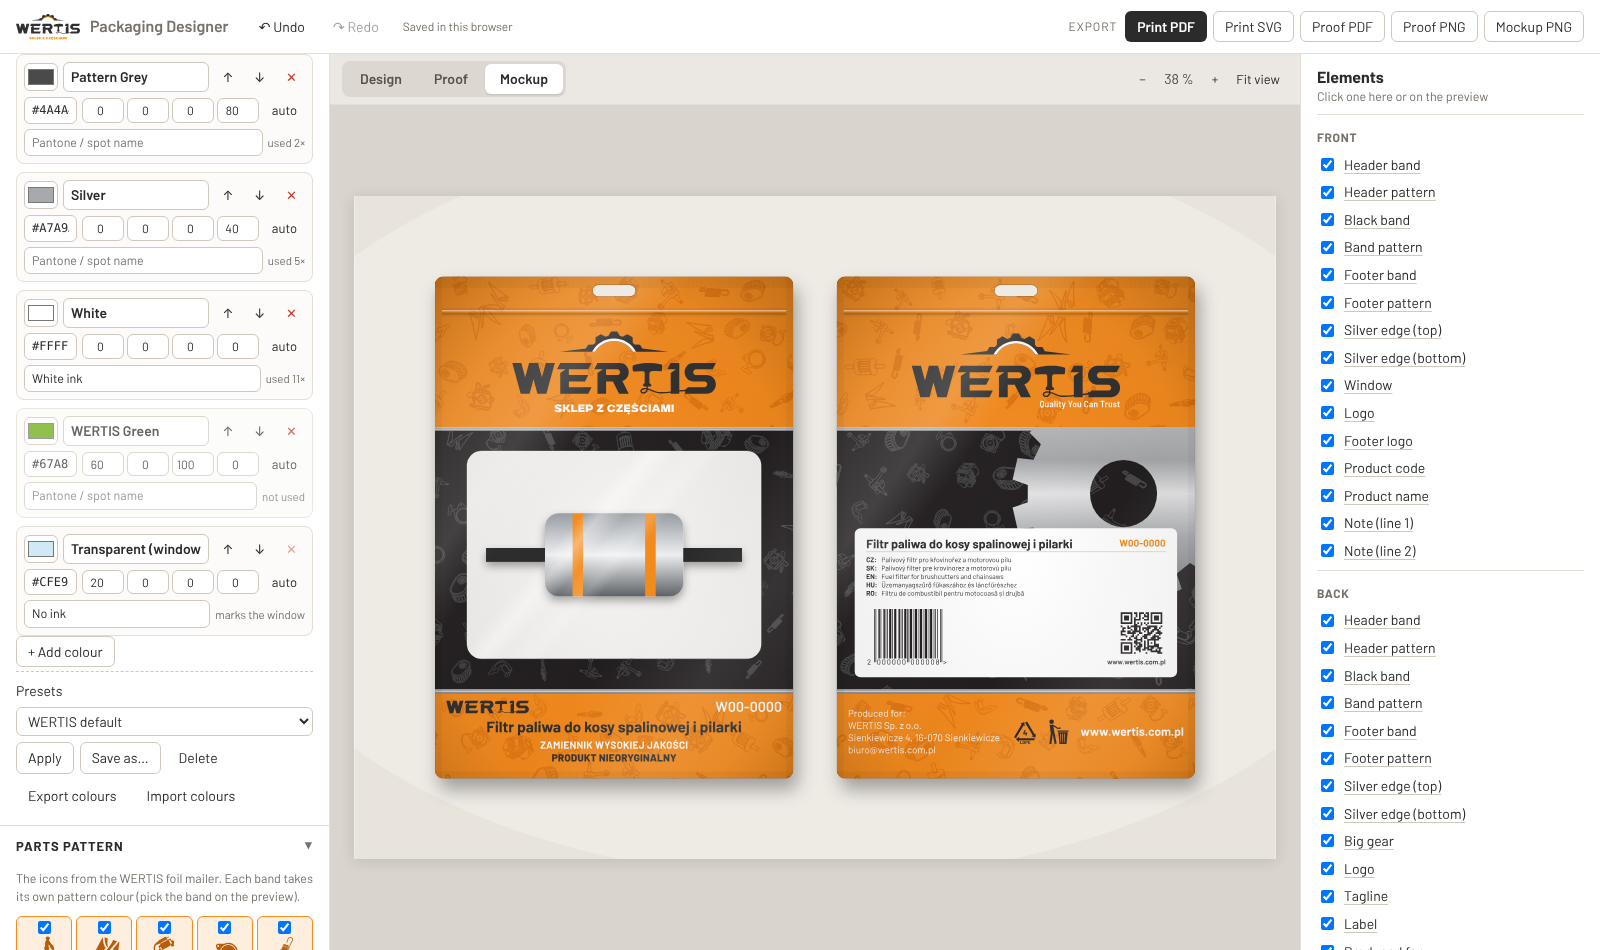
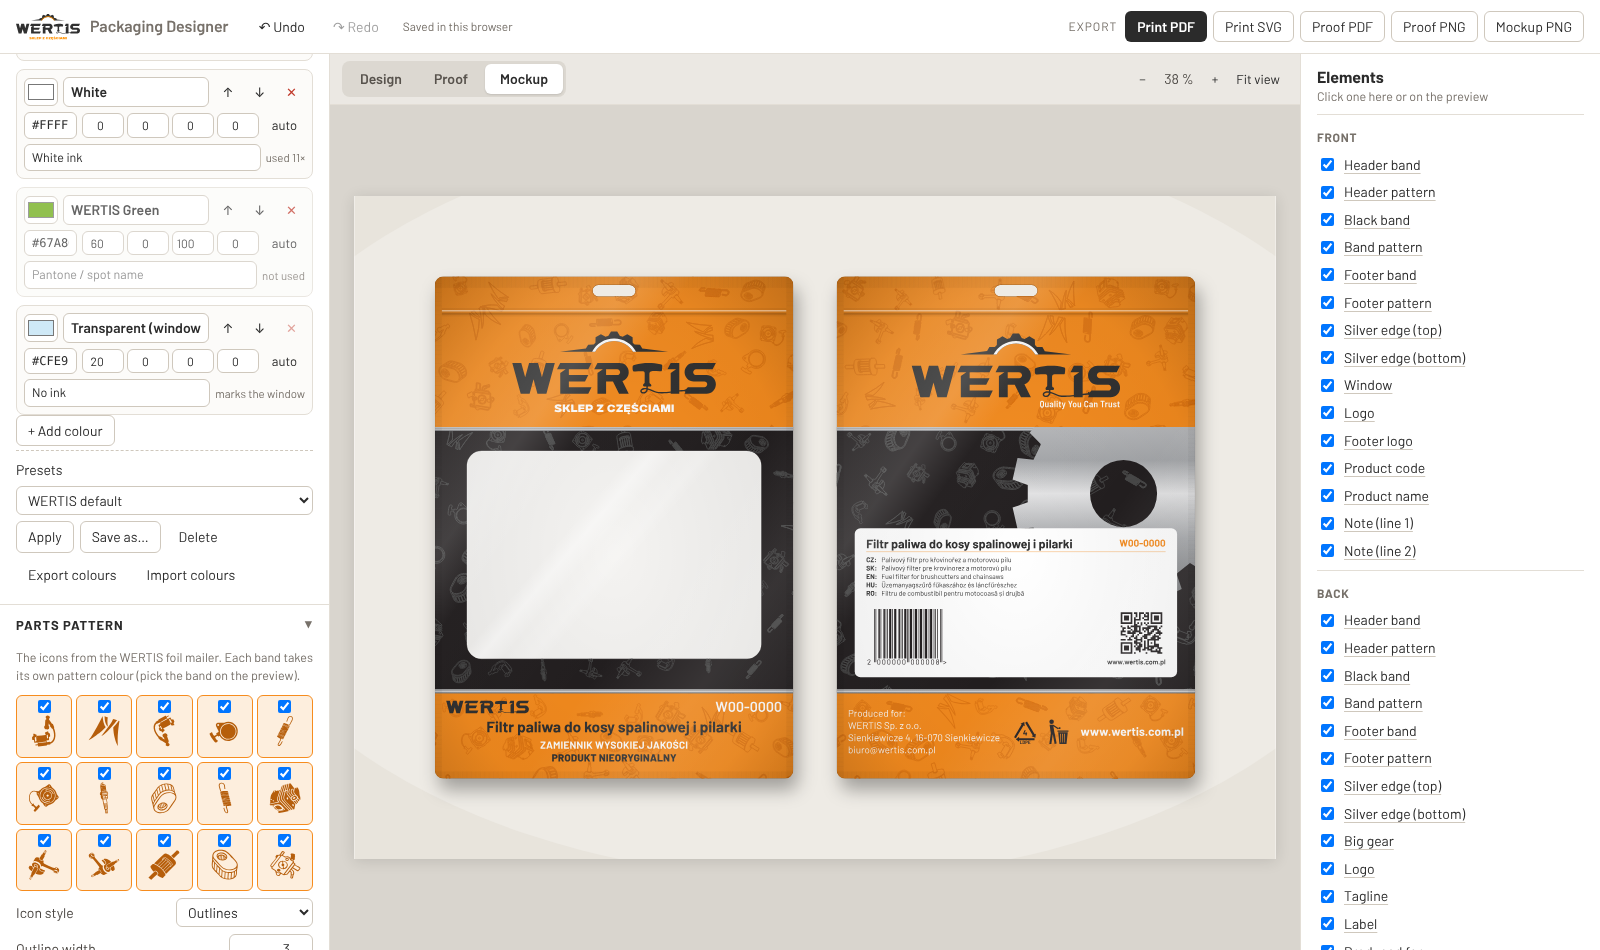
Stand-up pouch (doypack) with gusset strip; empty window without a photo
- standUpPouch: W × H + G, front and back side by side and the bottom gusset as
  its own strip with its fold line; K-seal, round or plain bottom seals; the
  template keeps text above the part of the face that folds under, and the
  gusset carries the WERTIS word on each half (the top one turned).
- Mockup: the stand-up pouch ends in a curved bottom with a floor shadow; with no
  photo the window stays empty (just the film), no placeholder product.
- Panel names sit over their own panel.

Claude-Session: https://claude.ai/code/session_01FnVXzPk8CL7256twG34DiS

Changed region(s): [[0.0, 0.0611, 0.2188, 1.0], [0.2812, 0.5189, 0.4688, 0.6411]]

diff --git a/src/render/mockup.js b/src/render/mockup.js
@@ -5,7 +5,6 @@
 import { el, n, rectPath } from './svg.js';
 import { geometry, panelsWithElements, wrapSvg } from './sheet.js';
 import { panelArt } from './artwork.js';
-import { PATTERN_ICONS } from '../brand/patternIcons.js';
 
 export const MOCKUP_VIEWS = [['front', 'Front'], ['back', 'Back'], ['both', 'Front and back']];
 
@@ -14,21 +13,22 @@ function rc(design, env) {
   return { design, text: env.text, defs: new Map(), used: new Set(), mode: 'mockup', bleed: 0, uid: (p) => `m${p}${++i}` };
 }
 
-// The product behind the window: the photo (cover-fitted, then zoomed and moved by the
-// user), or a placeholder fuel-filter icon when there is no photo yet.
+// The product behind the window: the photo, cover-fitted, then zoomed and moved by the
+// user. Without a photo the window stays empty: just the clear film.
 function productLayer(win, photo) {
+  if (!photo?.src) return '';
   const { x, y, w, h } = win.box;
-  if (photo?.src) {
-    const pw = photo.w || 1000, ph = photo.h || 1000;
-    const zoom = photo.zoom ?? 1;
-    const s = Math.max(w / pw, h / ph) * zoom;
-    const iw = pw * s, ih = ph * s;
-    const ix = x + (w - iw) / 2 + (photo.dx ?? 0) * w, iy = y + (h - ih) / 2 + (photo.dy ?? 0) * h;
-    return el('image', { href: photo.src, x: ix, y: iy, width: iw, height: ih, preserveAspectRatio: 'none' });
-  }
-  const icon = PATTERN_ICONS.find((i) => i.id === 'fuelFilter') ?? PATTERN_ICONS[0];
-  const s = (Math.min(w, h) * 0.78) / 100;
-  return el('g', { transform: `translate(${n(x + w / 2)} ${n(y + h / 2)}) rotate(-12) scale(${n(s)})`, fill: '#3a3a3c' }, icon.paths.map((p) => el('path', { 'fill-rule': p.rule, d: p.d })).join(''));
+  const pw = photo.w || 1000, ph = photo.h || 1000;
+  const zoom = photo.zoom ?? 1;
+  const s = Math.max(w / pw, h / ph) * zoom;
+  const iw = pw * s, ih = ph * s;
+  const ix = x + (w - iw) / 2 + (photo.dx ?? 0) * w, iy = y + (h - ih) / 2 + (photo.dy ?? 0) * h;
+  return el('image', { href: photo.src, x: ix, y: iy, width: iw, height: ih, preserveAspectRatio: 'none' });
+}
+
+function standUpOutline(W, H, zone, r) {
+  const y = H - zone * 0.55;
+  return `M0 ${n(r)}A${n(r)} ${n(r)} 0 0 1 ${n(r)} 0H${n(W - r)}A${n(r)} ${n(r)} 0 0 1 ${n(W)} ${n(r)}V${n(y)}Q${n(W / 2)} ${n(y + zone * 0.5)} 0 ${n(y)}Z`;
 }
 
 // Fine crimp lines across a seal strip.
@@ -45,7 +45,10 @@ function pouchFace(design, env, part, ctx, defs, ids) {
   const W = panel.w, H = panel.h;
   const dims = design.dims;
   const art = panelArt(ctx, { ...panel, bleedSides: { l: false, t: false, r: false, b: false } }, elements);
-  const outline = panel.lines.cut[0];
+  const zone = panel.info?.bottomZone ?? 0;
+  // A stand-up pouch's bottom curves under: the face ends in a shallow bulge part-way into
+  // the gusset zone.
+  const outline = zone ? standUpOutline(W, H, zone, dims.corner ?? 0) : panel.lines.cut[0];
   const holes = panel.lines.holes.join('');
   const clipId = ids('face');
   defs.push(el('clipPath', { id: clipId }, el('path', { d: outline + holes, 'clip-rule': 'evenodd' })));
@@ -59,7 +62,7 @@ function pouchFace(design, env, part, ctx, defs, ids) {
     defs.push(el('clipPath', { id: wClip }, el('path', { d: w.d })));
     inside += el('g', { 'clip-path': `url(#${wClip})` },
       (seeThrough === 'none' ? '' : el('path', { d: rectPath(w.box.x, w.box.y, w.box.w, w.box.h), fill: seeThrough }))
-      + el('g', { filter: `url(#${ids.shadowSoft})` }, productLayer(w, photo)));
+      + (photo?.src ? el('g', { filter: `url(#${ids.shadowSoft})` }, productLayer(w, photo)) : ''));
   }
   const gloss = ids('gloss'), shade = ids('shade'), glare = ids('glare');
   defs.push(
@@ -73,6 +76,13 @@ function pouchFace(design, env, part, ctx, defs, ids) {
         .map(([o, c, a]) => el('stop', { offset: o, 'stop-color': c, 'stop-opacity': a })).join('')),
   );
   let film = el('path', { d: rectPath(0, 0, W, H), fill: `url(#${shade})` }) + el('path', { d: rectPath(0, 0, W, H), fill: `url(#${gloss})` });
+  if (zone) {
+    const curve = ids('curve');
+    const top = (H - zone * 1.6) / H;
+    defs.push(el('linearGradient', { id: curve, x1: 0, y1: 0, x2: 0, y2: 1 },
+      [[0, 0], [top, 0], [1, 0.38]].map(([o, a]) => el('stop', { offset: o, 'stop-color': '#000000', 'stop-opacity': a })).join('')));
+    film += el('path', { d: rectPath(0, 0, W, H), fill: `url(#${curve})` });
+  }
   for (const w of art.windows) film += el('path', { d: w.d, fill: `url(#${glare})` }) + el('path', { d: w.d, fill: 'none', stroke: '#ffffff', 'stroke-opacity': 0.35, 'stroke-width': 0.6 });
   // Seals and zip.
   const seal = dims.sideSeal ?? 0, bottom = dims.bottomSeal ?? 0, top = dims.topSeal ?? 0;
@@ -95,8 +105,9 @@ export function mockupSvg(design, env) {
   const parts = panelsWithElements(design, env, geo);
   const ctx = rc(design, env);
   const view = design.mockup?.view ?? 'front';
-  const shown = parts.filter((p) => (view === 'both' ? true : p.panel.role === view));
-  const faces = shown.length ? shown : parts.slice(0, 1);
+  const faces0 = parts.filter((p) => p.panel.role === 'front' || p.panel.role === 'back');
+  const shown = faces0.filter((p) => (view === 'both' ? true : p.panel.role === view));
+  const faces = shown.length ? shown : faces0.slice(0, 1);
   const defs = [];
   let k = 0;
   const ids = (p) => `${p}${++k}`;
@@ -119,7 +130,10 @@ export function mockupSvg(design, env) {
     const holes = part.panel.lines.holes.join('');
     const shadowClip = ids('sh');
     defs.push(el('clipPath', { id: shadowClip }, el('path', { d: rectPath(-m, -m, W + 2 * m, H + 2 * m) + holes, 'clip-rule': 'evenodd' })));
-    const shadow = el('path', { d: part.panel.lines.cut[0], fill: '#000000', 'fill-opacity': 0.32, filter: `url(#${ids.shadow})`, transform: `translate(${n(W * 0.012)} ${n(H * 0.022)})` });
+    const zone = part.panel.info?.bottomZone ?? 0;
+    const shadow = zone
+      ? el('ellipse', { cx: n(W / 2), cy: n(H - zone * 0.4), rx: n(W * 0.56), ry: n(zone * 0.3), fill: '#000000', 'fill-opacity': 0.4, filter: `url(#${ids.shadow})` })
+      : el('path', { d: part.panel.lines.cut[0], fill: '#000000', 'fill-opacity': 0.32, filter: `url(#${ids.shadow})`, transform: `translate(${n(W * 0.012)} ${n(H * 0.022)})` });
     const tilt = angle ? ` rotate(${n(i % 2 ? -angle : angle)} ${n(W / 2)} ${n(H / 2)})` : '';
     body += el('g', { transform: `translate(${n(x)} 0)${tilt}` }, el('g', { 'clip-path': `url(#${shadowClip})` }, shadow) + face);
   });

diff --git a/src/formats/standUpPouch.js b/src/formats/standUpPouch.js
@@ -1,0 +1,103 @@
+// A stand-up pouch (doypack), W × H + G: front and back faces side by side, and the bottom
+// gusset as its own strip below them (the usual three-web build), folded in half when the
+// pouch is made. The lowest G/2 of each face is where the gusset is sealed in and the bottom
+// curves under, so text keeps above it.
+import { rectPath, polyPath } from '../render/svg.js';
+import { num, choice, toggle, normalizeDims, dim } from './common.js';
+import { HOLES, pouchFace } from './flatPouch.js';
+
+export const BOTTOMS = [['k', 'K-seal'], ['round', 'Round bottom'], ['plow', 'Plain (plough) bottom']];
+
+export const FIELDS = [
+  num('width', 'Width', 160, 60, 500),
+  num('height', 'Height', 230, 80, 700),
+  num('gusset', 'Bottom gusset (open)', 80, 20, 300),
+  choice('bottom', 'Bottom seal', 'k', BOTTOMS),
+  num('sideSeal', 'Side seals', 6, 0, 30, 0.5),
+  num('topSeal', 'Top seal', 8, 0, 40, 0.5),
+  toggle('zip', 'Zip', true),
+  num('zipOffset', 'Zip from top', 30, 5, 200, 0.5, { when: 'zip' }),
+  num('zipWidth', 'Zip track width', 6, 2, 20, 0.5, { when: 'zip' }),
+  choice('hole', 'Hang hole', 'none', HOLES),
+  num('holeWidth', 'Hole width', 30, 4, 80, 0.5, { whenNot: ['hole', 'none'] }),
+  num('holeHeight', 'Hole height', 8, 3, 30, 0.5, { whenNot: ['hole', 'none'] }),
+  num('holeOffset', 'Hole centre from top', 10, 3, 100, 0.5, { whenNot: ['hole', 'none'] }),
+  num('corner', 'Corner radius', 4, 0, 30, 0.5),
+  toggle('tearNotch', 'Tear notches', true),
+  num('notchOffset', 'Notch from top', 20, 3, 200, 0.5, { when: 'tearNotch' }),
+  num('bleed', 'Bleed', 3, 0, 10, 0.5),
+  num('safe', 'Safe margin', 3, 0, 20, 0.5),
+];
+
+const GAP = 14; // between the faces and the gusset strip on the sheet
+
+// The seals where the gusset meets the face at its corners: along an edge at `edge`,
+// reaching `depth` into the panel in direction `dir` (-1 up, +1 down).
+function cornerSeals(kind, W, edge, depth, dir, seal) {
+  const y = (k) => edge + dir * k;
+  if (kind === 'k') {
+    return [polyPath([[0, y(depth)], [depth * 0.55, edge], [0, edge]]), polyPath([[W, y(depth)], [W - depth * 0.55, edge], [W, edge]])];
+  }
+  if (kind === 'round') {
+    const r = depth * 0.9;
+    const arc = (sx) => {
+      const pts = [[sx === 1 ? 0 : W, edge]];
+      for (let i = 0; i <= 12; i++) {
+        const a = (Math.PI / 2) * (i / 12);
+        pts.push([sx === 1 ? r - r * Math.cos(a) : W - r + r * Math.cos(a), y(r - r * Math.sin(a))]);
+      }
+      return polyPath(pts);
+    };
+    return [arc(1), arc(-1)];
+  }
+  const h = Math.min(depth, seal * 2);
+  return [rectPath(0, dir < 0 ? edge - h : edge, W, h)];
+}
+
+export function layout(input) {
+  const d = normalizeDims(FIELDS, input);
+  const W = d.width, H = d.height, G = d.gusset, half = G / 2;
+  const face = pouchFace({ ...d, bottomSeal: half }, W, H);
+  const faceLines = {
+    cut: [rectPath(0, 0, W, H, [d.corner, d.corner, 0, 0])],
+    seal: [
+      d.sideSeal && rectPath(0, 0, d.sideSeal, H), d.sideSeal && rectPath(W - d.sideSeal, 0, d.sideSeal, H),
+      d.topSeal && rectPath(0, 0, W, d.topSeal), ...cornerSeals(d.bottom, W, H, half, -1, d.sideSeal),
+    ].filter(Boolean),
+    zip: face.zipY !== null ? [{ y: face.zipY, w: d.zipWidth }] : [],
+    holes: face.hole ? [face.hole.d] : [],
+    notches: face.notch,
+    fold: [`M0 ${H - half}H${W}`],
+  };
+  const gussetLines = {
+    cut: [rectPath(0, 0, W, G)],
+    seal: [...cornerSeals(d.bottom, W, 0, half, 1, d.sideSeal), ...cornerSeals(d.bottom, W, G, half, -1, d.sideSeal)],
+    zip: [], holes: [], notches: [],
+    fold: [`M0 ${half}H${W}`],
+  };
+  const gussetSafe = { x: d.sideSeal + d.safe, y: d.safe, w: W - 2 * (d.sideSeal + d.safe), h: G - 2 * d.safe };
+  const facePanel = (id, label, x, bleedSides) => ({ id, label, role: id, x, y: 0, w: W, h: H, bleedSides, lines: faceLines, info: { ...face, corner: d.corner, bottomZone: half } });
+  return {
+    format: 'standUpPouch',
+    dims: d,
+    size: { w: 2 * W, h: H + GAP + G },
+    bleed: d.bleed,
+    panels: [
+      facePanel('front', 'Front', 0, { l: true, t: true, r: false, b: true }),
+      facePanel('back', 'Back', W, { l: false, t: true, r: true, b: true }),
+      { id: 'gusset', label: 'Bottom gusset', role: 'gusset', x: W / 2, y: H + GAP, w: W, h: G, bleedSides: { l: true, t: true, r: true, b: true }, lines: gussetLines, info: { safe: gussetSafe, fold: half } },
+    ],
+    sheetLines: { fold: [] },
+    measures: [
+      dim(0, 0, 2 * W, 0, -16, `${2 * W}`),
+      dim(0, 0, W, 0, -8), dim(W, 0, 2 * W, 0, -8),
+      dim(0, 0, 0, H, -8),
+      dim(0, H - half, 0, H, -18, `gusset ${half}`),
+      ...(face.zipY !== null ? [dim(0, 0, 0, face.zipY, -18, `zip ${face.zipY}`)] : []),
+      dim(W / 2 + W, H + GAP, W / 2 + W, H + GAP + G, 8, `${G}`),
+    ],
+    title: `Stand-up pouch ${W} × ${H} + ${G} mm`,
+  };
+}
+
+export const standUpPouch = { id: 'standUpPouch', label: 'Stand-up pouch (doypack)', example: 'pouch', fields: FIELDS, layout, templates: ['pouchWindow'] };

diff --git a/test/standUpPouch.test.js b/test/standUpPouch.test.js
@@ -1,0 +1,51 @@
+import { test } from 'node:test';
+import assert from 'node:assert/strict';
+import { layout, FIELDS } from '../src/formats/standUpPouch.js';
+import { normalizeDims } from '../src/formats/common.js';
+import { printSvg } from '../src/export/documents.js';
+import { renderProof } from '../src/render/proof.js';
+import { panelsWithElements } from '../src/render/sheet.js';
+import { mockupSvg } from '../src/render/mockup.js';
+import { design, env } from './helpers.js';
+
+const defaults = normalizeDims(FIELDS, {});
+
+test('faces side by side and the gusset strip below them', () => {
+  const g = layout(defaults);
+  assert.deepEqual(g.panels.map((p) => [p.id, p.w, p.h]), [['front', 160, 230], ['back', 160, 230], ['gusset', 160, 80]]);
+  const gus = g.panels[2];
+  assert.ok(gus.y > 230, 'below the faces');
+  assert.equal(gus.info.fold, 40, 'folded in half');
+  assert.equal(gus.lines.fold[0], 'M0 40H160');
+  assert.deepEqual(gus.bleedSides, { l: true, t: true, r: true, b: true }, 'a separate piece: bleed all round');
+});
+
+test('text stays above the part of the face that folds under', () => {
+  const p = layout(defaults).panels[0];
+  assert.equal(p.info.bottomZone, 40);
+  assert.equal(p.info.safe.y + p.info.safe.h, 230 - 40 - 3);
+  assert.equal(p.lines.fold[0], 'M0 190H160');
+});
+
+test('each bottom seal style draws its corners', () => {
+  for (const bottom of ['k', 'round', 'plow']) {
+    const g = layout({ ...defaults, bottom });
+    assert.ok(g.panels[0].lines.seal.length >= 4, bottom);
+    assert.ok(g.panels[2].lines.seal.length >= 2, bottom);
+    assert.ok(!g.panels[2].lines.seal.join('').includes('NaN'));
+  }
+});
+
+test('the whole stand-up design renders to print, proof and mockup', () => {
+  const d = design({ format: 'standUpPouch' });
+  const svg = printSvg(d, env());
+  assert.match(svg, /width="326mm" height="330mm"/, '2 × 160 + bleed by 230 + 14 + 80 + bleed');
+  assert.ok(!/<filter|<pattern|<mask|NaN/.test(svg));
+  const ids = panelsWithElements(d, env()).flatMap((p) => p.elements.map((e) => e.id));
+  assert.ok(ids.includes('gusset.logoTop') && ids.includes('gusset.logoBottom'));
+  assert.ok(svg.includes('rotate(180'), 'the top gusset logo is turned to read from outside');
+  assert.ok(renderProof(d, env()).svg.includes('<svg'));
+  d.mockup.view = 'both';
+  const m = mockupSvg(d, env());
+  assert.ok(m.svg.includes('<ellipse'), 'a floor shadow under the standing pouch');
+});

diff --git a/src/templates/pouchWindow.js b/src/templates/pouchWindow.js
@@ -24,11 +24,14 @@ export const OPTIONS = [
   toggle('tidyman', 'Tidyman (bin) mark', true),
 ];
 
+// Band heights are shares of the visible face: on a stand-up pouch the lowest part folds
+// under into the gusset, so the footer band starts above it and runs on to the bottom.
 function bands(ctx) {
   const { w: W, h: H } = ctx.panel;
   const o = ctx.options;
-  const headerH = H * clamp(o.headerPct / 100, 0.05, 0.9);
-  const footerTop = H * (1 - clamp(o.footerPct / 100, 0.05, 0.9));
+  const VH = H - (ctx.panel.info.bottomZone ?? 0);
+  const headerH = VH * clamp(o.headerPct / 100, 0.05, 0.9);
+  const footerTop = VH * (1 - clamp(o.footerPct / 100, 0.05, 0.9));
   return { W, H, headerH, footerTop: Math.max(footerTop, headerH + 10) };
 }
 
@@ -158,4 +161,24 @@ export function back(ctx) {
   return els;
 }
 
-export const pouchWindow = { id: 'pouchWindow', label: 'Window pouch (KEULE style)', options: OPTIONS, panels: { front, back } };
+// The bottom gusset of a stand-up pouch: orange with the pattern, and the WERTIS word on
+// each half, the top one turned so both read right from outside once folded.
+export function gusset(ctx) {
+  const { w: W, h: G } = ctx.panel;
+  const half = ctx.panel.info.fold;
+  const els = [
+    { id: 'gusset.fill', label: 'Gusset fill', type: 'rect', layer: 'bg', bleed: true, box: { x: 0, y: 0, w: W, h: G }, colors: { fill: 'boxOrange' } },
+    { id: 'gusset.pattern', label: 'Gusset pattern', type: 'pattern', layer: 'bg', bleed: true, box: { x: 0, y: 0, w: W, h: G }, colors: { ink: 'orangeTone' } },
+  ];
+  const lw = Math.min(W * 0.4, half * 0.5 * 4.4);
+  const lh = lw / 4.4;
+  els.push(
+    { id: 'gusset.logoTop', label: 'Gusset logo (top half)', type: 'logo', layer: 'fg', layout: 'word', rotate: 180,
+      box: { x: (W - lw) / 2, y: (half - lh) / 2, w: lw, h: lh }, colors: { gear: 'dark', arc: 'white', word: 'dark', line: 'dark' } },
+    { id: 'gusset.logoBottom', label: 'Gusset logo (bottom half)', type: 'logo', layer: 'fg', layout: 'word',
+      box: { x: (W - lw) / 2, y: half + (half - lh) / 2, w: lw, h: lh }, colors: { gear: 'dark', arc: 'white', word: 'dark', line: 'dark' } },
+  );
+  return els;
+}
+
+export const pouchWindow = { id: 'pouchWindow', label: 'Window pouch (KEULE style)', options: OPTIONS, panels: { front, back, gusset } };

diff --git a/src/ui/sidebar.js b/src/ui/sidebar.js
@@ -135,7 +135,7 @@ export function sidebar(store, { getParts, project }) {
     } catch (err) { toast(err.message, 'error'); }
   } });
   const photoInfo = h('span', { class: 'hint' });
-  const removePhoto = h('button', { class: 'ghost', onclick: () => { store.set(['mockup', 'photo'], null); store.settle(); } }, 'Remove photo');
+  const removePhoto = h('button', { class: 'ghost', id: 'mockup-remove', onclick: () => { store.set(['mockup', 'photo'], null); store.settle(); } }, 'Remove photo');
   const viewSel = h('select', { id: 'mockup-view', onchange: () => { store.set(['mockup', 'view'], viewSel.value); store.settle(); } }, MOCKUP_VIEWS.map(([k, label]) => h('option', { value: k }, label)));
   const bg = h('input', { type: 'color', id: 'mockup-bg', oninput: () => store.set(['mockup', 'background'], bg.value, { coalesce: 'mk-bg' }), onchange: () => store.settle() });
   const dpi = h('select', { id: 'mockup-dpi' }, [[96, 'Screen (96 dpi)'], [150, 'Standard (150 dpi)'], [300, 'High (300 dpi)']].map(([v, label]) => h('option', { value: v, selected: v === 150 }, label)));

diff --git a/src/render/sheet.js b/src/render/sheet.js
@@ -64,7 +64,7 @@ export function renderSheet(design, env, { mode = 'design', margin = 0, dieline 
   if (dieline) over += el('g', { id: mode === 'print' ? 'dieline' : null, 'data-layer': 'dieline' }, dielineSvg(geo, { style: mode === 'print' ? 'print' : guides ? 'design' : 'proof', windows }));
   if (mode === 'design' && labels) {
     for (const p of geo.panels) {
-      const t = env.text.layout({ text: p.label.toUpperCase(), x: p.x + p.w / 2, y: -b - 2.2, font: 'bold', size: 3.4, align: 'center', valign: 'baseline', spacing: 0.08 });
+      const t = env.text.layout({ text: p.label.toUpperCase(), x: p.x + p.w / 2, y: p.y - b - 2.2, font: 'bold', size: 3.4, align: 'center', valign: 'baseline', spacing: 0.08 });
       over += el('g', { fill: '#7a7570' }, t.svg);
     }
   }

diff --git a/src/render/artwork.js b/src/render/artwork.js
@@ -155,7 +155,10 @@ function elementSvg(rc, e, panel) {
     case 'logo': {
       const colors = {};
       for (const role of ['gear', 'arc', 'word', 'line']) colors[role] = colorOf(rc, e, role);
-      return logoSvg({ box: e.box, layout: e.layout, colors, align: e.align ?? 'center', valign: e.valign ?? 'middle' });
+      const r = logoSvg({ box: e.box, layout: e.layout, colors, align: e.align ?? 'center', valign: e.valign ?? 'middle' });
+      if (!e.rotate) return r;
+      const cx = r.box.x + r.box.w / 2, cy = r.box.y + r.box.h / 2;
+      return { svg: el('g', { transform: `rotate(${e.rotate} ${n(cx)} ${n(cy)})` }, r.svg), box: r.box };
     }
     case 'text': return textSvg(rc, e, colorOf(rc, e, 'fill'));
     case 'label': return labelSvg(rc, e);

diff --git a/scripts/playtest.js b/scripts/playtest.js
@@ -139,6 +139,8 @@ export async function playtest() {
       assert.ok(size > 100_000, `mockup PNG at ${dpi} dpi`);
     }
     step('the mockup exports at 96 and 300 dpi');
+    await page.click('#mockup-remove'); // the screenshots show the empty window
+    await page.waitForFunction(() => !window.wertis.store.get().mockup.photo);
 
     // The outline pattern style.
     await page.click('#sec-pattern > summary');

diff --git a/src/registry.js b/src/registry.js
@@ -1,6 +1,7 @@
 // The formats (dieline geometry) and templates (on-brand layouts) the app knows.
 import { flatPouch } from './formats/flatPouch.js';
+import { standUpPouch } from './formats/standUpPouch.js';
 import { pouchWindow } from './templates/pouchWindow.js';
 
-export const FORMATS = { flatPouch };
+export const FORMATS = { flatPouch, standUpPouch };
 export const TEMPLATES = { pouchWindow };

diff --git a/docs/screenshots/README.md b/docs/screenshots/README.md
@@ -16,5 +16,5 @@ Written by `npm run playtest`.
 - the mockup exports at 96 and 300 dpi
 - the pattern switches to outlines
 - proof and mockup tabs draw
-- every format draws (flatPouch)
+- every format draws (flatPouch, standUpPouch)
 - no console errors
